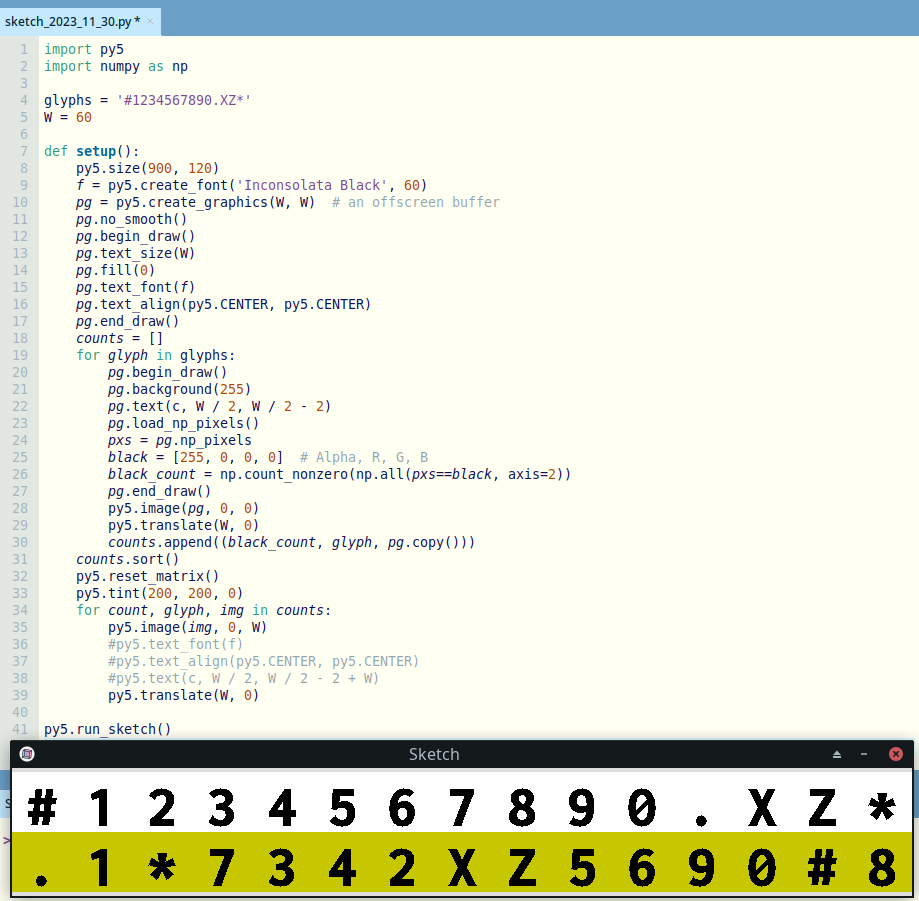
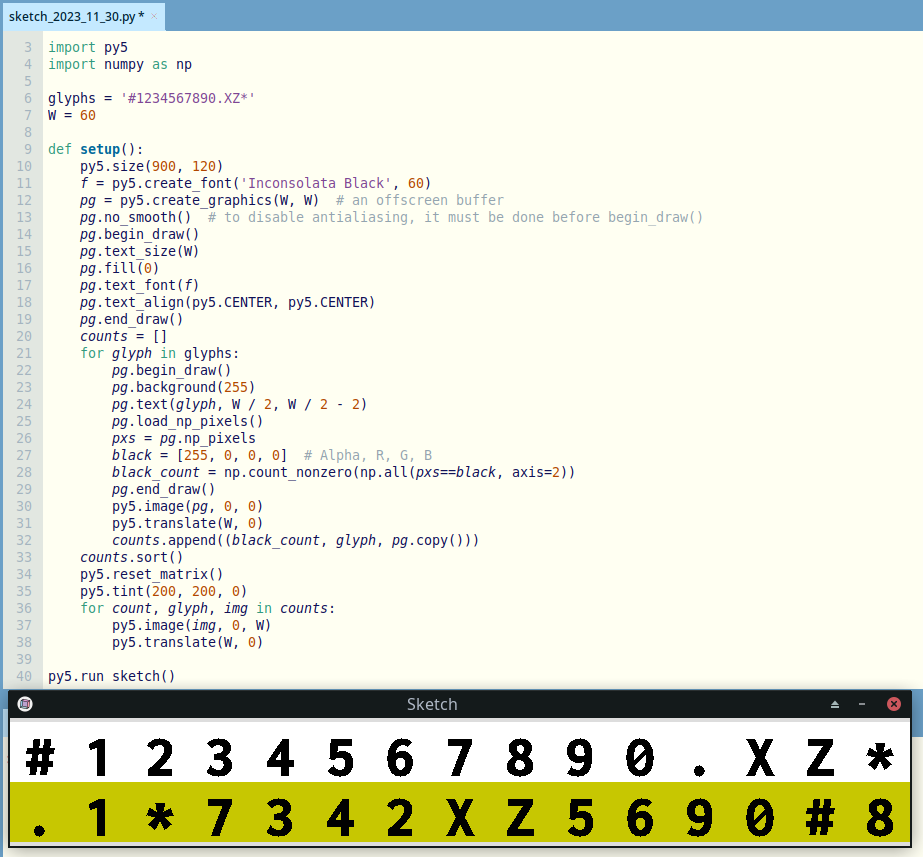
update

Changed region(s): [[0.0, 0.0, 1.0, 1.0]]

diff --git a/2023/sketch_2023_11_30/sketch_2023_11_30.py b/2023/sketch_2023_11_30/sketch_2023_11_30.py
@@ -10,7 +10,7 @@ def setup():
     py5.size(900, 120)
     f = py5.create_font('Inconsolata Black', 60)
     pg = py5.create_graphics(W, W)  # an offscreen buffer
-    pg.no_smooth()
+    pg.no_smooth()  # to disable antialiasing, it must be done before begin_draw()
     pg.begin_draw()
     pg.text_size(W)
     pg.fill(0)
@@ -21,7 +21,7 @@ def setup():
     for glyph in glyphs:
         pg.begin_draw()
         pg.background(255)
-        pg.text(c, W / 2, W / 2 - 2)
+        pg.text(glyph, W / 2, W / 2 - 2)
         pg.load_np_pixels()
         pxs = pg.np_pixels
         black = [255, 0, 0, 0]  # Alpha, R, G, B
